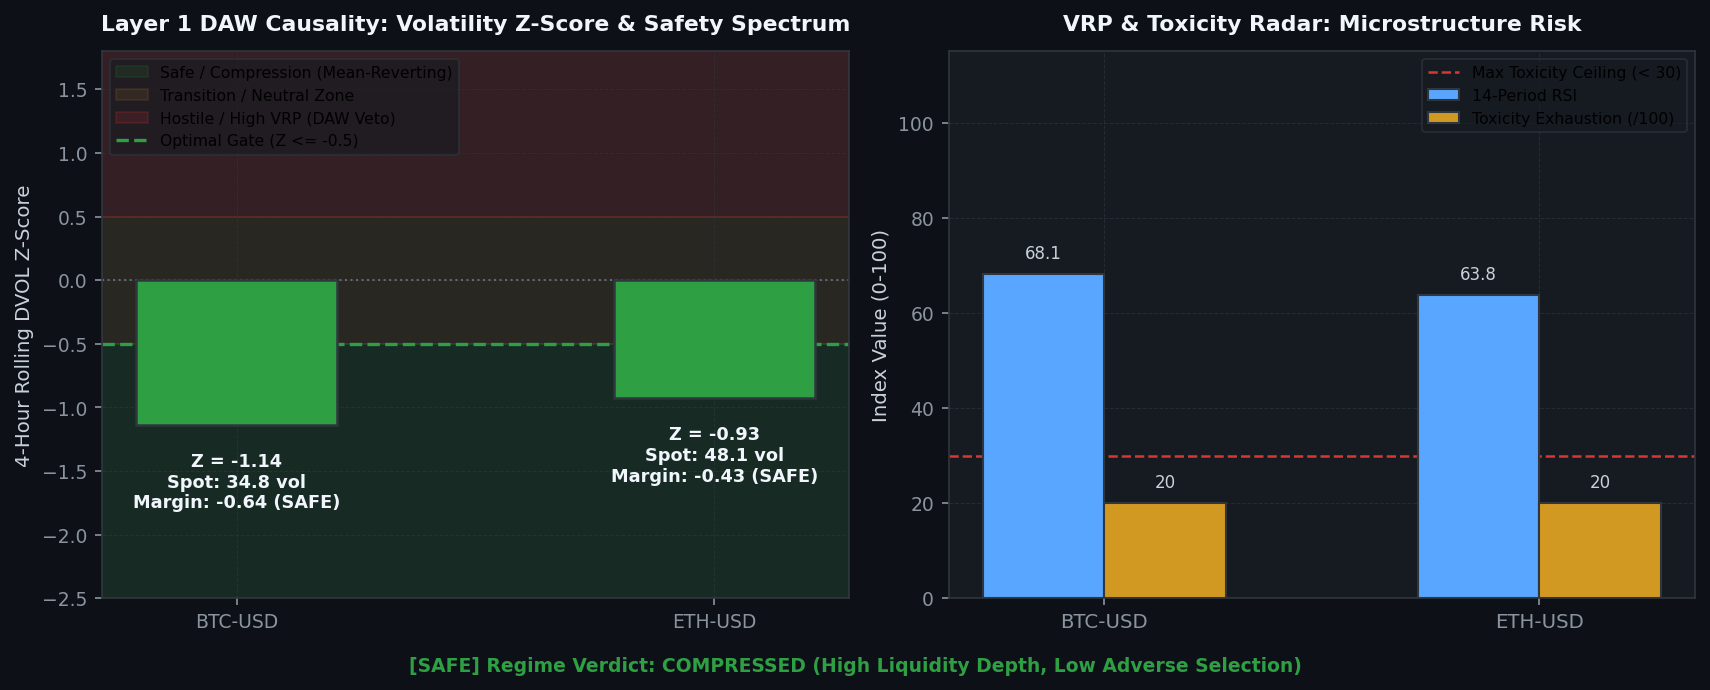
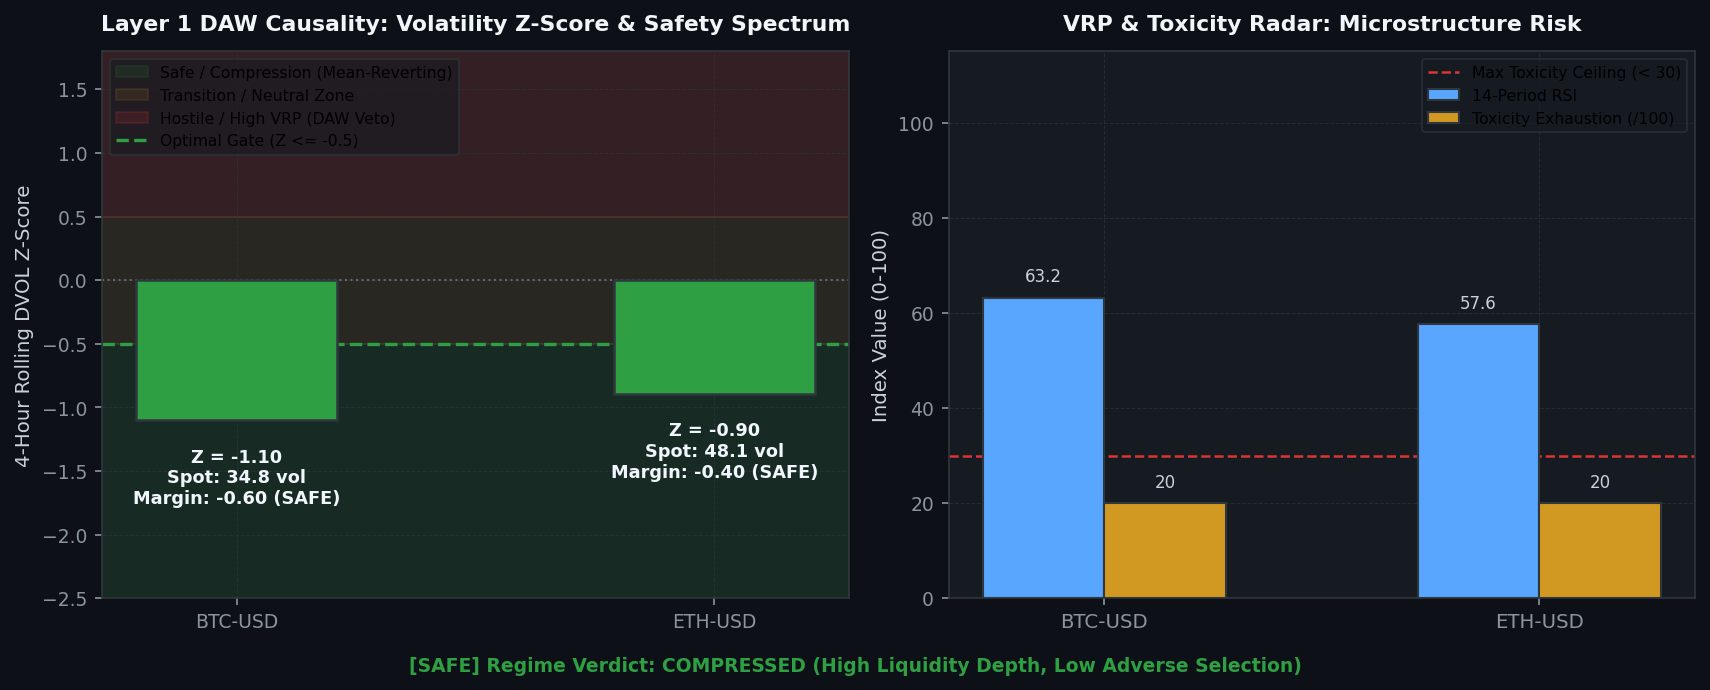
[coinbase] Hourly Status & Visual Intelligence Update: 2026-10-02 19:38:26

diff --git a/coinbase/data/hourly_status_report.md b/coinbase/data/hourly_status_report.md
@@ -3,7 +3,7 @@ layout: default
 ---
 
 # 🛡 Unified Trading System Hourly Status & Visual Intelligence
-> **Report Generated**: `2026-10-02 07:20:55 PM PDT (2026-10-03 02:20:55 UTC)`  
+> **Report Generated**: `2026-10-02 07:38:08 PM PDT (2026-10-03 02:38:08 UTC)`  
 > **System Health**: **🟡 DEGRADED / RESTRICTED** | **Win Rate**: `0.0%` | **Completed Trades**: `0`
 
 
@@ -15,13 +15,13 @@ Real-time Deribit implied volatility (DVOL) proxy tracking against mathematicall
 
 | Symbol | Proxy Oracle | Live Z-Score | Optimal Limit (YSP) | Safety Margin | Live VRP | Optimal VRP (YSP) | DAW Safety Verdict |
 | :--- | :--- | :--- | :--- | :--- | :--- | :--- | :--- |
-| `BTC-USD` | DVOL_BTC | **-1.14** | **-0.50** | **-0.64** | **+22.91** | -1.0 | 🔴 DAW VETOED |
-| `ETH-USD` | DVOL_ETH | **-0.93** | **-0.50** | **-0.43** | **+39.13** | -1.0 | 🔴 DAW VETOED |
-| `SOL-USD` | DVOL_BTC | **-1.14** | **-0.50** | **-0.64** | **+22.89** | -1.0 | 🔴 DAW VETOED |
-| `DOGE-USD` | DVOL_BTC | **-1.14** | **-0.50** | **-0.64** | **+22.89** | -1.0 | 🔴 DAW VETOED |
-| `AVAX-USD` | DVOL_BTC | **-1.14** | **-0.50** | **-0.64** | **+22.91** | -1.0 | 🔴 DAW VETOED |
-| `LINK-USD` | DVOL_BTC | **-1.14** | **-0.50** | **-0.64** | **+22.91** | -1.0 | 🔴 DAW VETOED |
-| `XRP-USD` | DVOL_BTC | **-1.14** | **-0.50** | **-0.64** | **+22.89** | 5.0 | 🔴 DAW VETOED |
+| `BTC-USD` | DVOL_BTC | **-1.10** | **-0.50** | **-0.60** | **+22.91** | -1.0 | 🔴 DAW VETOED |
+| `ETH-USD` | DVOL_ETH | **-0.90** | **-0.50** | **-0.40** | **+39.13** | -1.0 | 🔴 DAW VETOED |
+| `SOL-USD` | DVOL_BTC | **-1.10** | **-0.50** | **-0.60** | **+22.89** | -1.0 | 🔴 DAW VETOED |
+| `DOGE-USD` | DVOL_BTC | **-1.10** | **-0.50** | **-0.60** | **+22.89** | -1.0 | 🔴 DAW VETOED |
+| `AVAX-USD` | DVOL_BTC | **-1.10** | **-0.50** | **-0.60** | **+22.91** | -1.0 | 🔴 DAW VETOED |
+| `LINK-USD` | DVOL_BTC | **-1.10** | **-0.50** | **-0.60** | **+22.91** | -1.0 | 🔴 DAW VETOED |
+| `XRP-USD` | DVOL_BTC | **-1.10** | **-0.50** | **-0.60** | **+22.89** | 5.0 | 🔴 DAW VETOED |
 
 
 
@@ -37,12 +37,12 @@ We hereby certify that the mission-critical algorithmic data assets uploaded by 
 
 | Status | Data Asset | Freshness / State | Details / Timestamp |
 | :---: | :--- | :--- | :--- |
-| ✅ | **Go-List JSON** | Fresh (114.16h old) | 09-28 01:11 |
-| ❌ | **TimesFM Forecasts** | STALE! (11.3h old) | Limit 9.0h |
-| ✅ | **Holding Times config** | Fresh (114.16h old) | 09-28 01:11 |
-| ✅ | **BTC DVOL Cache** | Fresh (0.00h old) | 10-02 19:20 |
-| ✅ | **ETH DVOL Cache** | Fresh (0.00h old) | 10-02 19:21 |
-| ❌ | **Live Causal Telemetry** | STALE! (415.6h old) | Limit 0.5h |
+| ✅ | **Go-List JSON** | Fresh (114.45h old) | 09-28 01:11 |
+| ❌ | **TimesFM Forecasts** | STALE! (11.6h old) | Limit 9.0h |
+| ✅ | **Holding Times config** | Fresh (114.45h old) | 09-28 01:11 |
+| ✅ | **BTC DVOL Cache** | Fresh (0.01h old) | 10-02 19:38 |
+| ✅ | **ETH DVOL Cache** | Fresh (0.00h old) | 10-02 19:38 |
+| ❌ | **Live Causal Telemetry** | STALE! (415.9h old) | Limit 0.5h |
 
 <br>
 
@@ -98,8 +98,8 @@ Operational telemetry of the high-velocity stablecoin market-making and VIP fee 
 | **Active BUY Tranches** | **0 Orders** (`$0.00 USD`) | Resting Limit Bids pegged to Best Bid |
 | **Active SELL Tranches** | **0 Orders** (`$0.00 USDT`) | Resting Limit Asks pegged to Best Ask |
 | **Total Deployed U/U Capital** | **`$0.00 USD`** | Active bidirectional turnover liquidity pool |
-| **Rolling 30-Day Volume** | **`$433,899.84 USD`** | **Advanced 3** (Maker: **0.10%** / 10 bps, Taker: **0.15%**) |
-| **Next Tier Milestone (VIP 1)** | **43.4% Complete** | `$566,100.16 USD` to reach $1,000,000.00 threshold |
+| **Rolling 30-Day Volume** | **`$432,732.97 USD`** | **Advanced 3** (Maker: **0.10%** / 10 bps, Taker: **0.15%**) |
+| **Next Tier Milestone (VIP 1)** | **43.3% Complete** | `$567,267.03 USD` to reach $1,000,000.00 threshold |
 
 
 ---
@@ -135,14 +135,14 @@ Live balance sheet and open maker liquidity positions from Coinbase CDP.
 ## 6. 🤖 Foundation Model MLOps & Pipeline Orchestration
 Weekly Algorithmic Mega Cap selection, Zero-shot multi-step forward return forecasts, and VSTEF parameter grid search status.
 
-- **TimesFM Forecast DB**: 🔴 Updated 11.3h ago (2026-10-02 08:03 AM PDT)
+- **TimesFM Forecast DB**: 🔴 Updated 11.6h ago (2026-10-02 08:03 AM PDT)
 - **Last Weekly VSTEF Optimization**: `2026-09-28 01:10:22 AM PDT`
-- **Next Scheduled VSTEF Run**: `2026-10-04 07:00:00 PM PDT (Monday 02:00 UTC)` (Countdown: **47.6h (1d 23h 38m)**)
+- **Next Scheduled VSTEF Run**: `2026-10-04 07:00:00 PM PDT (Monday 02:00 UTC)` (Countdown: **47.4h (1d 23h 21m)**)
 - **Promoted Parameter Gates**: $Z_{DVOL} \le -0.5$ | Holding Horizon $= 12\text{h}$
 
 ### Algorithmic Mega Cap Selection
 - **Last Run (Confirmation)**: `2026-09-28 01:11:12 AM PDT`
-- **Next Scheduled Run**: `2026-10-04 06:00:00 PM PDT (Monday 01:00 UTC)` (Countdown: **46.6h (1d 22h 38m)**)
+- **Next Scheduled Run**: `2026-10-04 06:00:00 PM PDT (Monday 01:00 UTC)` (Countdown: **46.4h (1d 22h 21m)**)
 - **Selected Mega Cap Universe**: `BTC, ETH, SOL, DOGE, AVAX, LINK, XRP`
 
 
@@ -158,7 +158,7 @@ Visualizing the impact of the VSTEF (Volatility-Synchronized Stop-Tightening Exe
 ================================================================================
    🛡  CAUSAL HFT GUARDIAN WATCHDOG v7.0.0 (CANARY ACTIVE)
 ================================================================================
-2454565    06:44:55  0.0  0.0 /opt/hft_trader/venv/bin/python -u guardian_causal.py
+2454565    07:02:08  0.0  0.0 /opt/hft_trader/venv/bin/python -u guardian_causal.py
 ```
 
 ---

diff --git a/coinbase/data/visual_intelligence.md b/coinbase/data/visual_intelligence.md
@@ -4,7 +4,7 @@ title: Visual Intelligence Gallery
 ---
 
 # 📈 Visual Intelligence Gallery
-> **Generated:** `2026-10-02 19:21:13`
+> **Generated:** `2026-10-02 19:38:26`
 > **[Return to Main Status Report](./hourly_status_report.md)**
 
 This page visualizes the internal states, market profiles, and decision criteria of the active **3-Tier Fused Decision Engine** across all layers.
